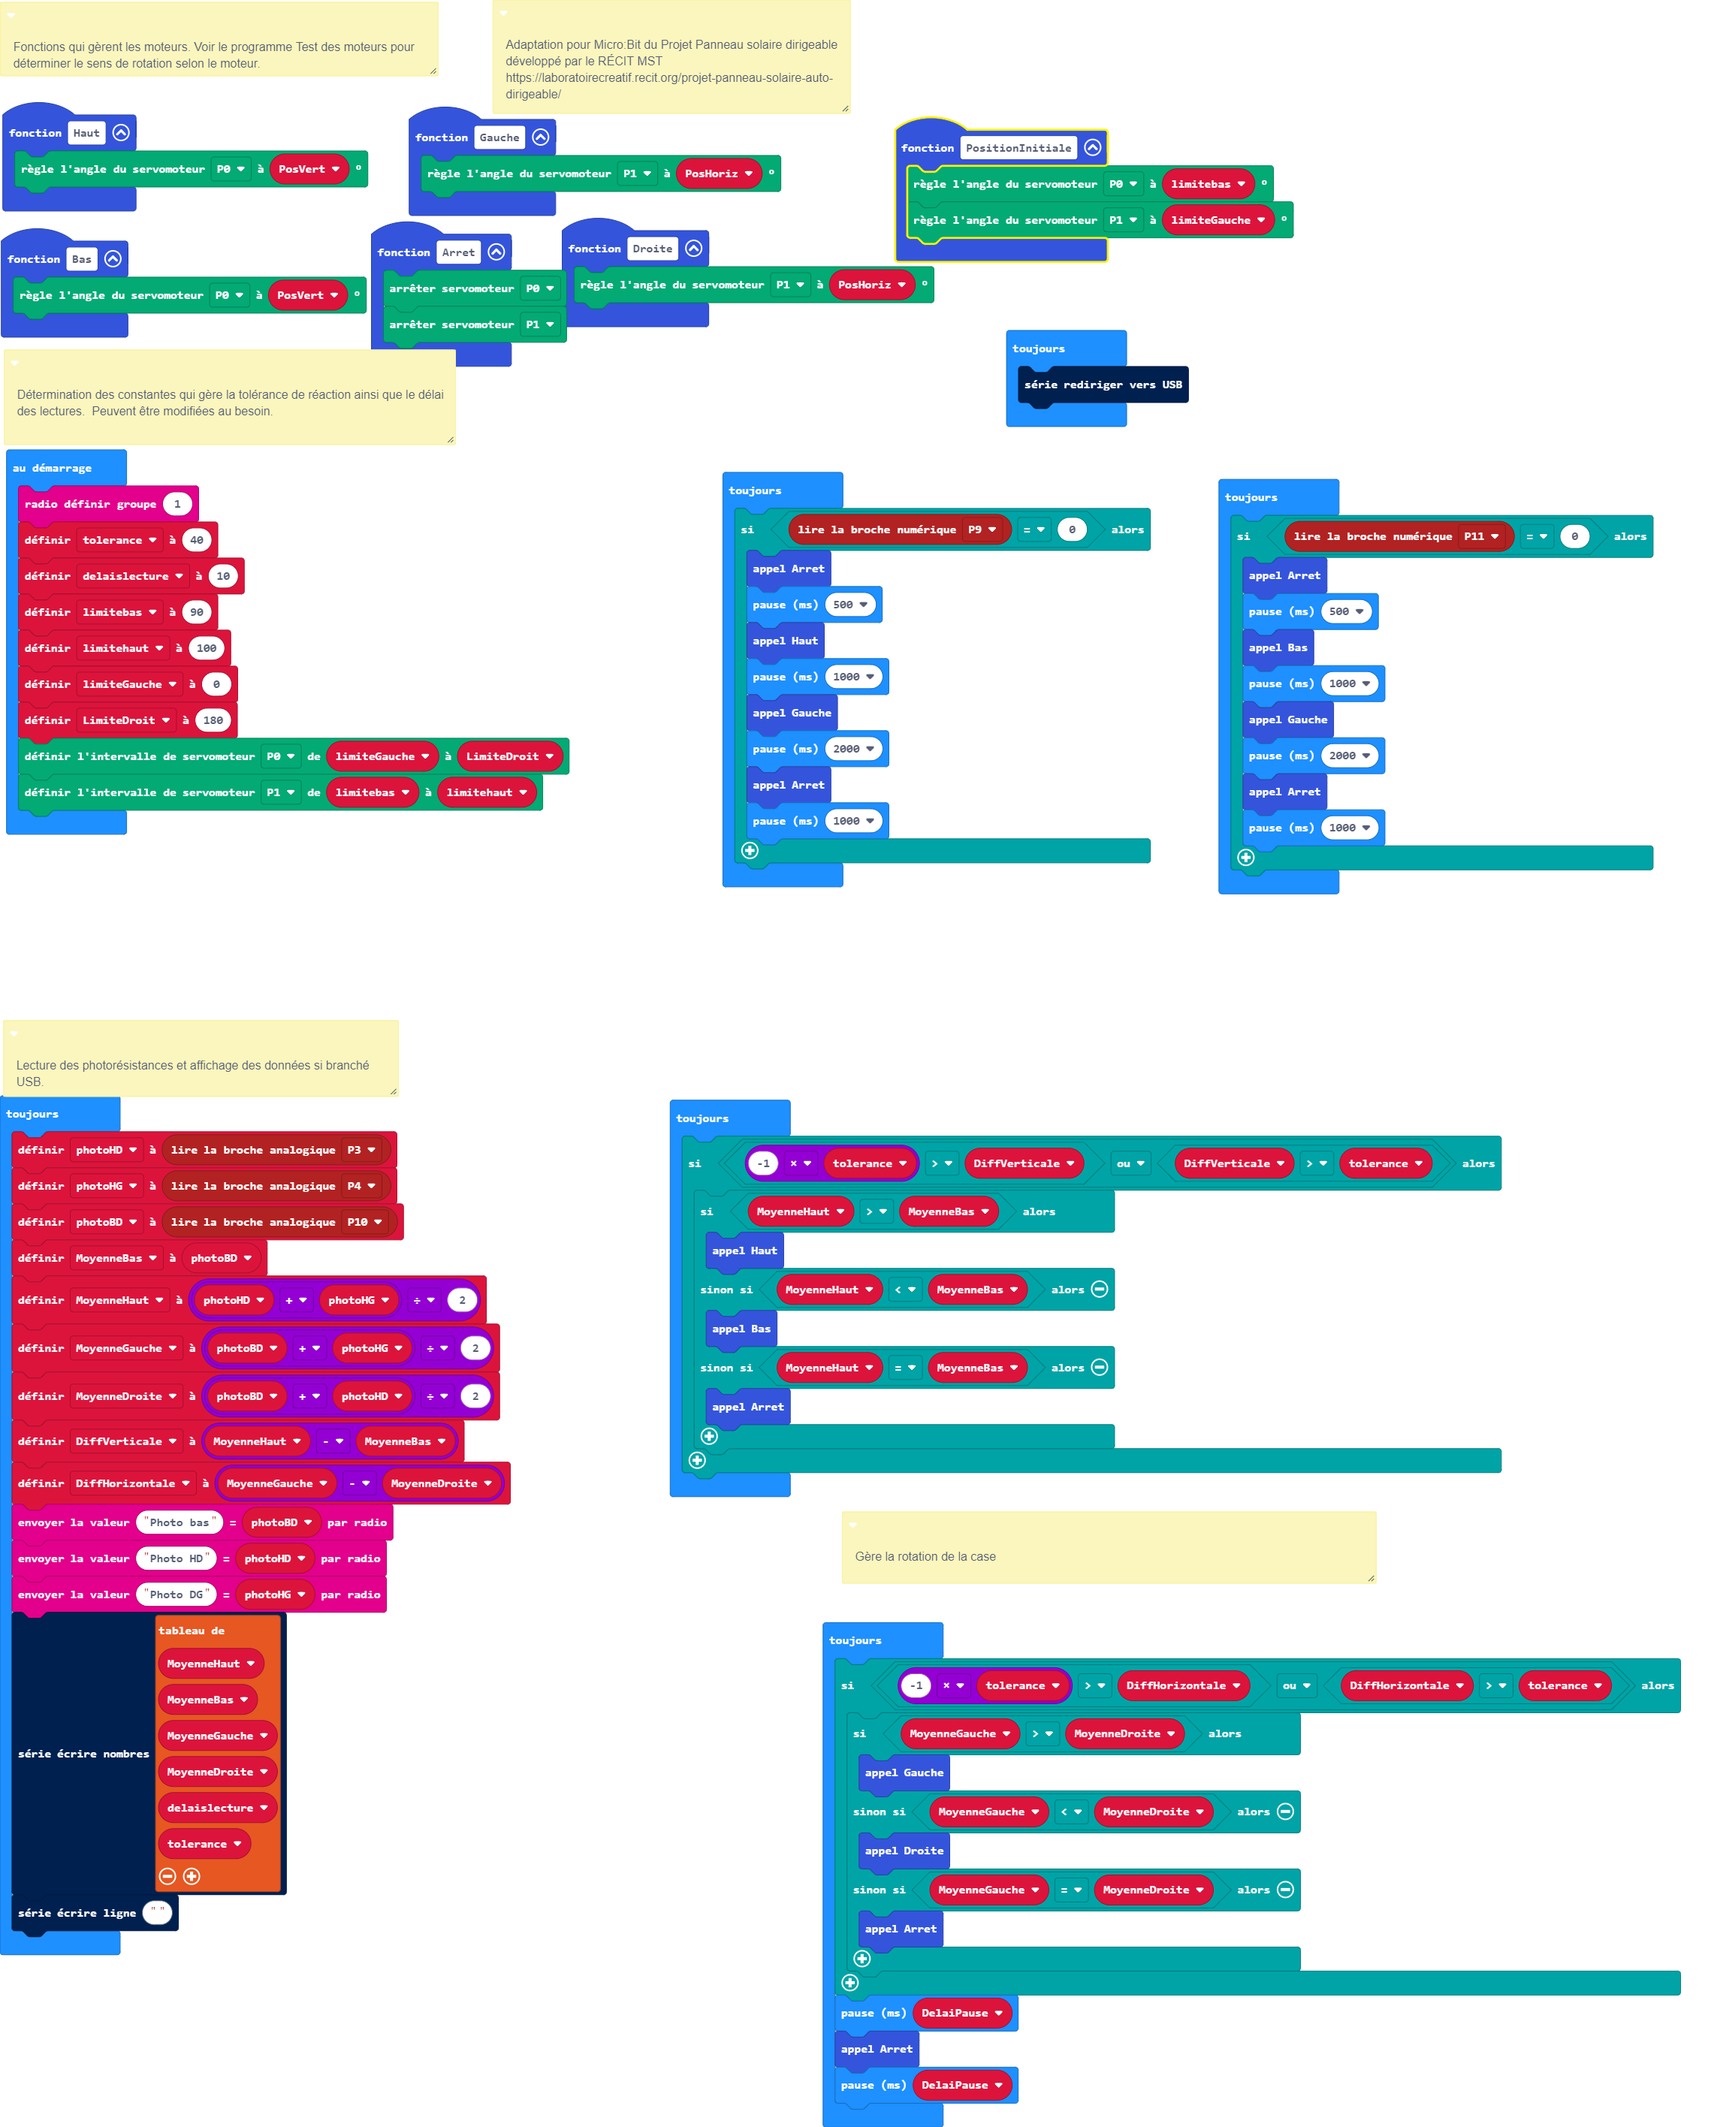
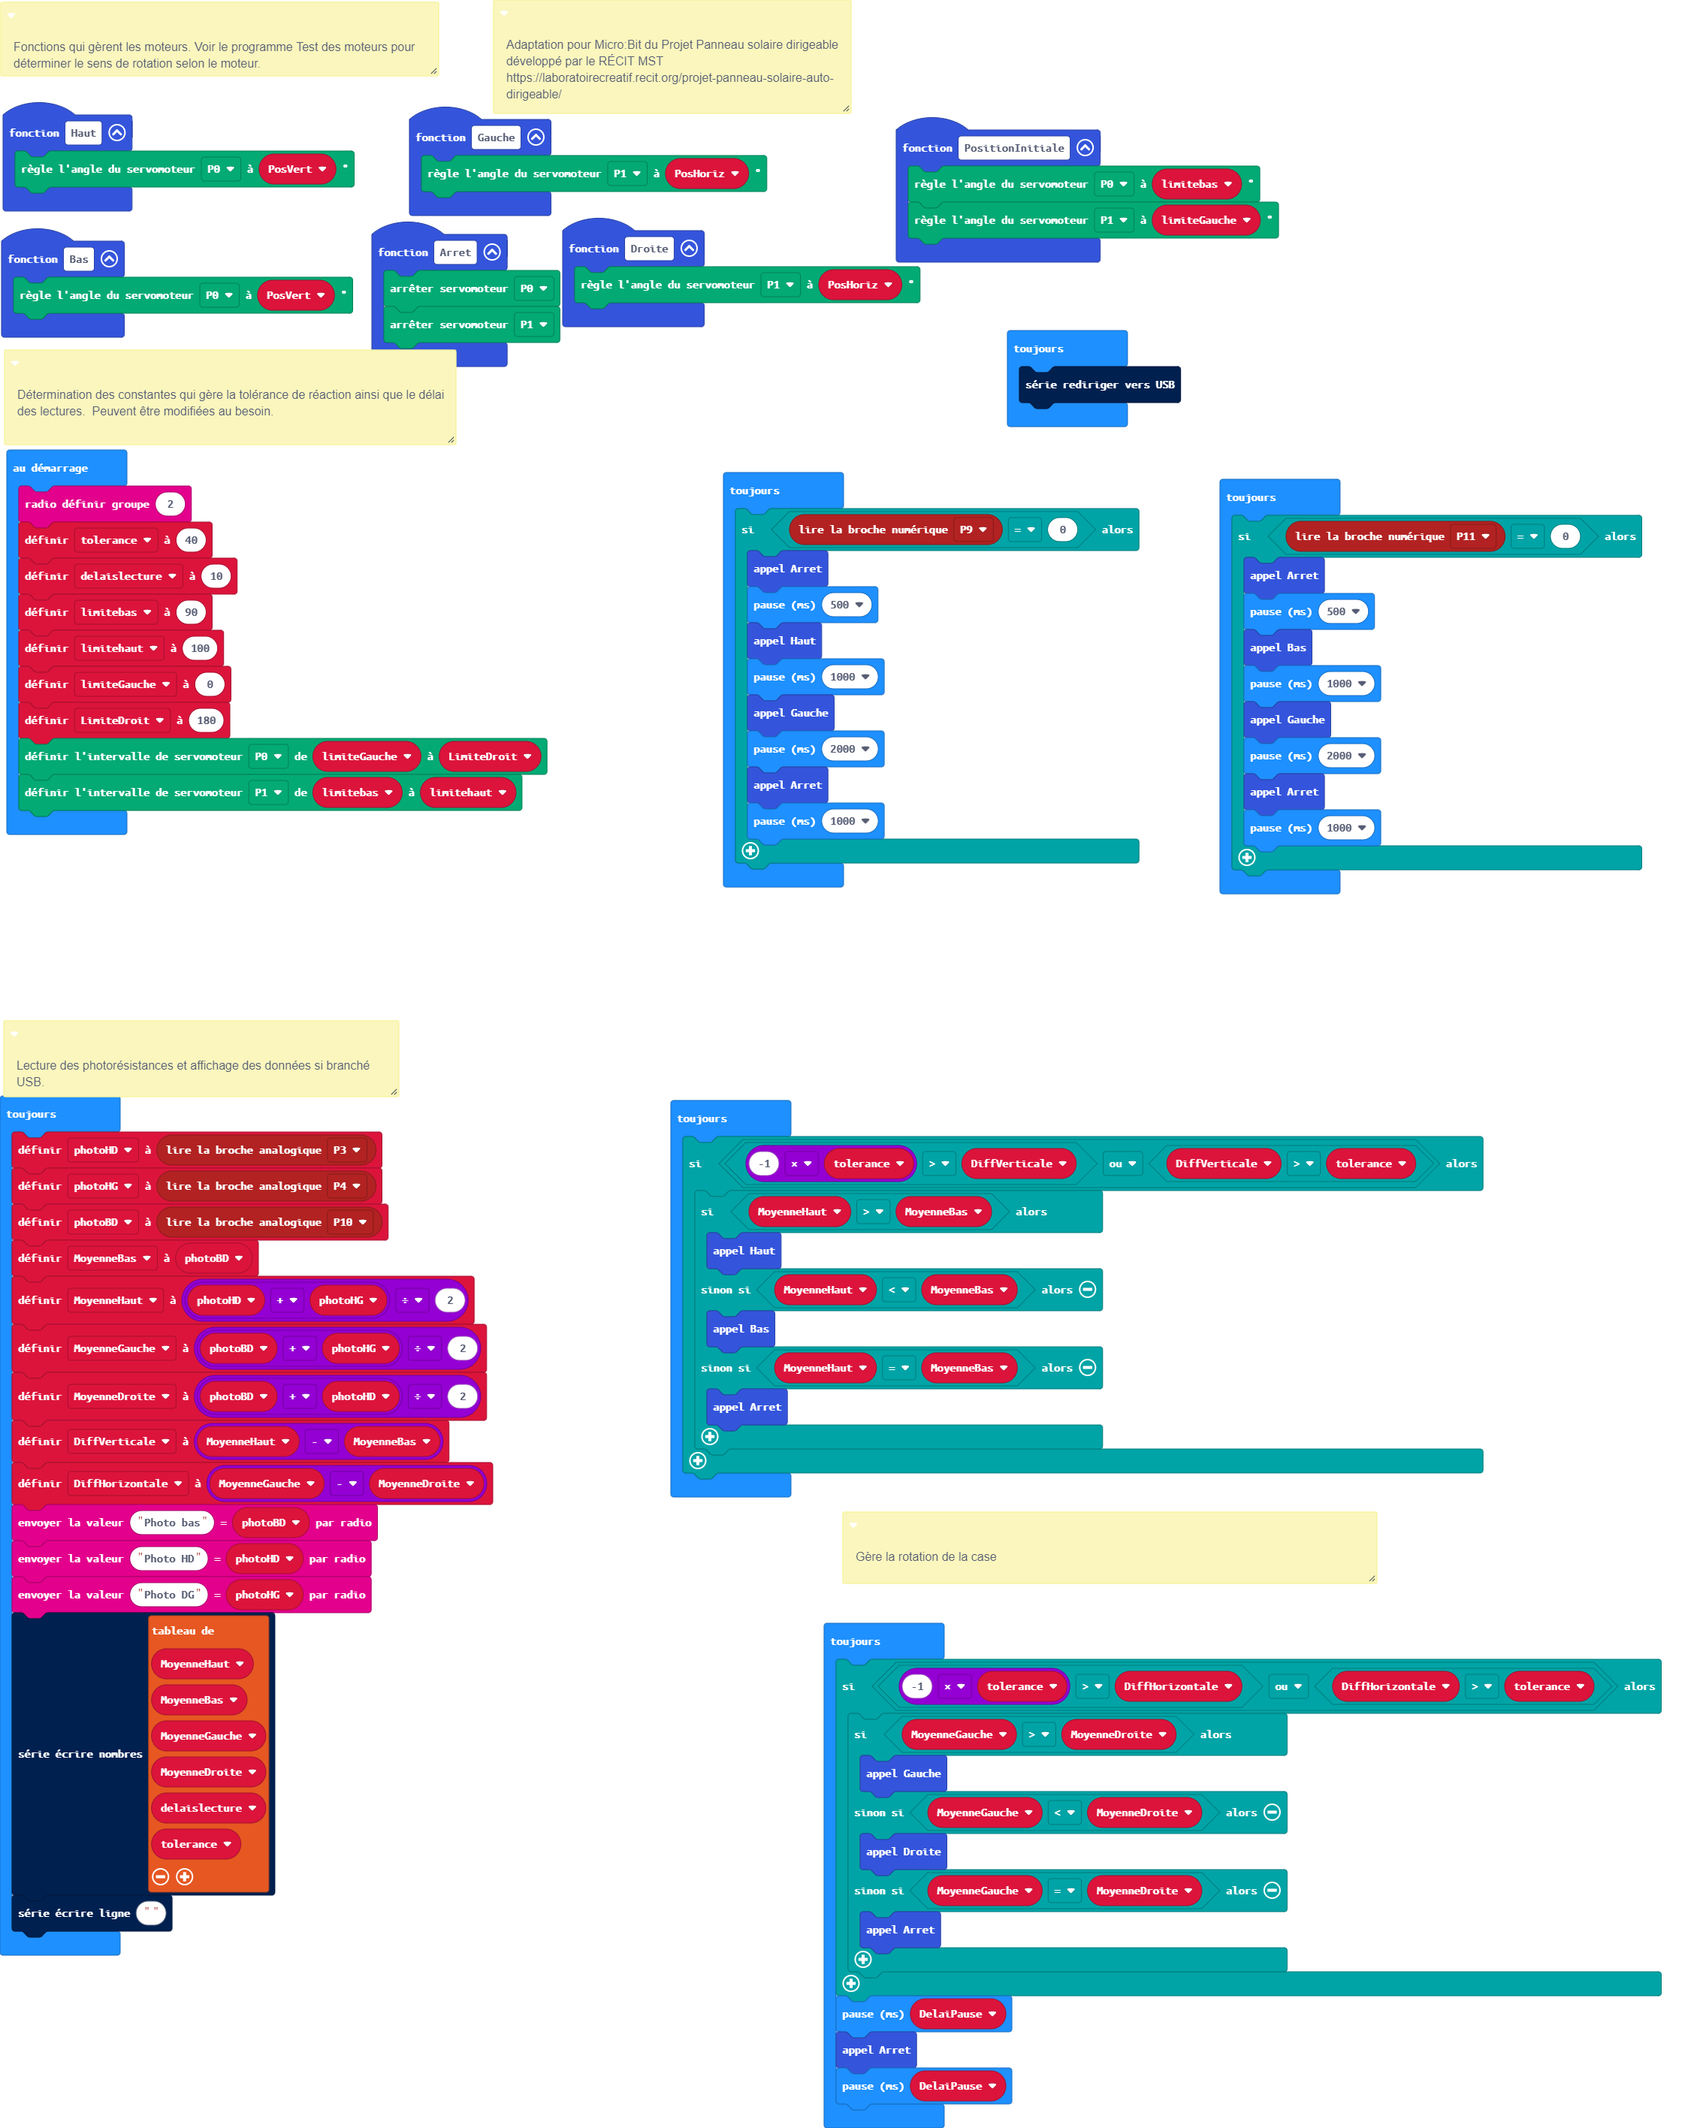
Mise à jour main.blocks, main.ts

diff --git a/main.ts b/main.ts
@@ -2,9 +2,6 @@
  * Fonctions qui gèrent les moteurs. Voir le programme Test des moteurs pour déterminer le sens de rotation selon le moteur.
  */
 /**
- * Gère la rotation de la case
- */
-/**
  * Adaptation pour Micro:Bit du Projet Panneau solaire dirigeable développé par le RÉCIT MST
  * 
  * https://laboratoirecreatif.recit.org/projet-panneau-solaire-auto-dirigeable/
@@ -45,7 +42,7 @@ let PosVert = 0
 let PosHoriz = 0
 let limiteGauche = 0
 let limitebas = 0
-radio.setGroup(1)
+radio.setGroup(2)
 let tolerance = 40
 let delaislecture = 10
 limitebas = 90
@@ -100,6 +97,9 @@ basic.forever(function () {
     serial.writeNumbers([MoyenneHaut, MoyenneBas, MoyenneGauche, MoyenneDroite, delaislecture, tolerance])
     serial.writeLine("")
 })
+/**
+ * Gère la rotation de la case
+ */
 basic.forever(function () {
     if (-1 * tolerance > DiffVerticale || DiffVerticale > tolerance) {
         if (MoyenneHaut > MoyenneBas) {
